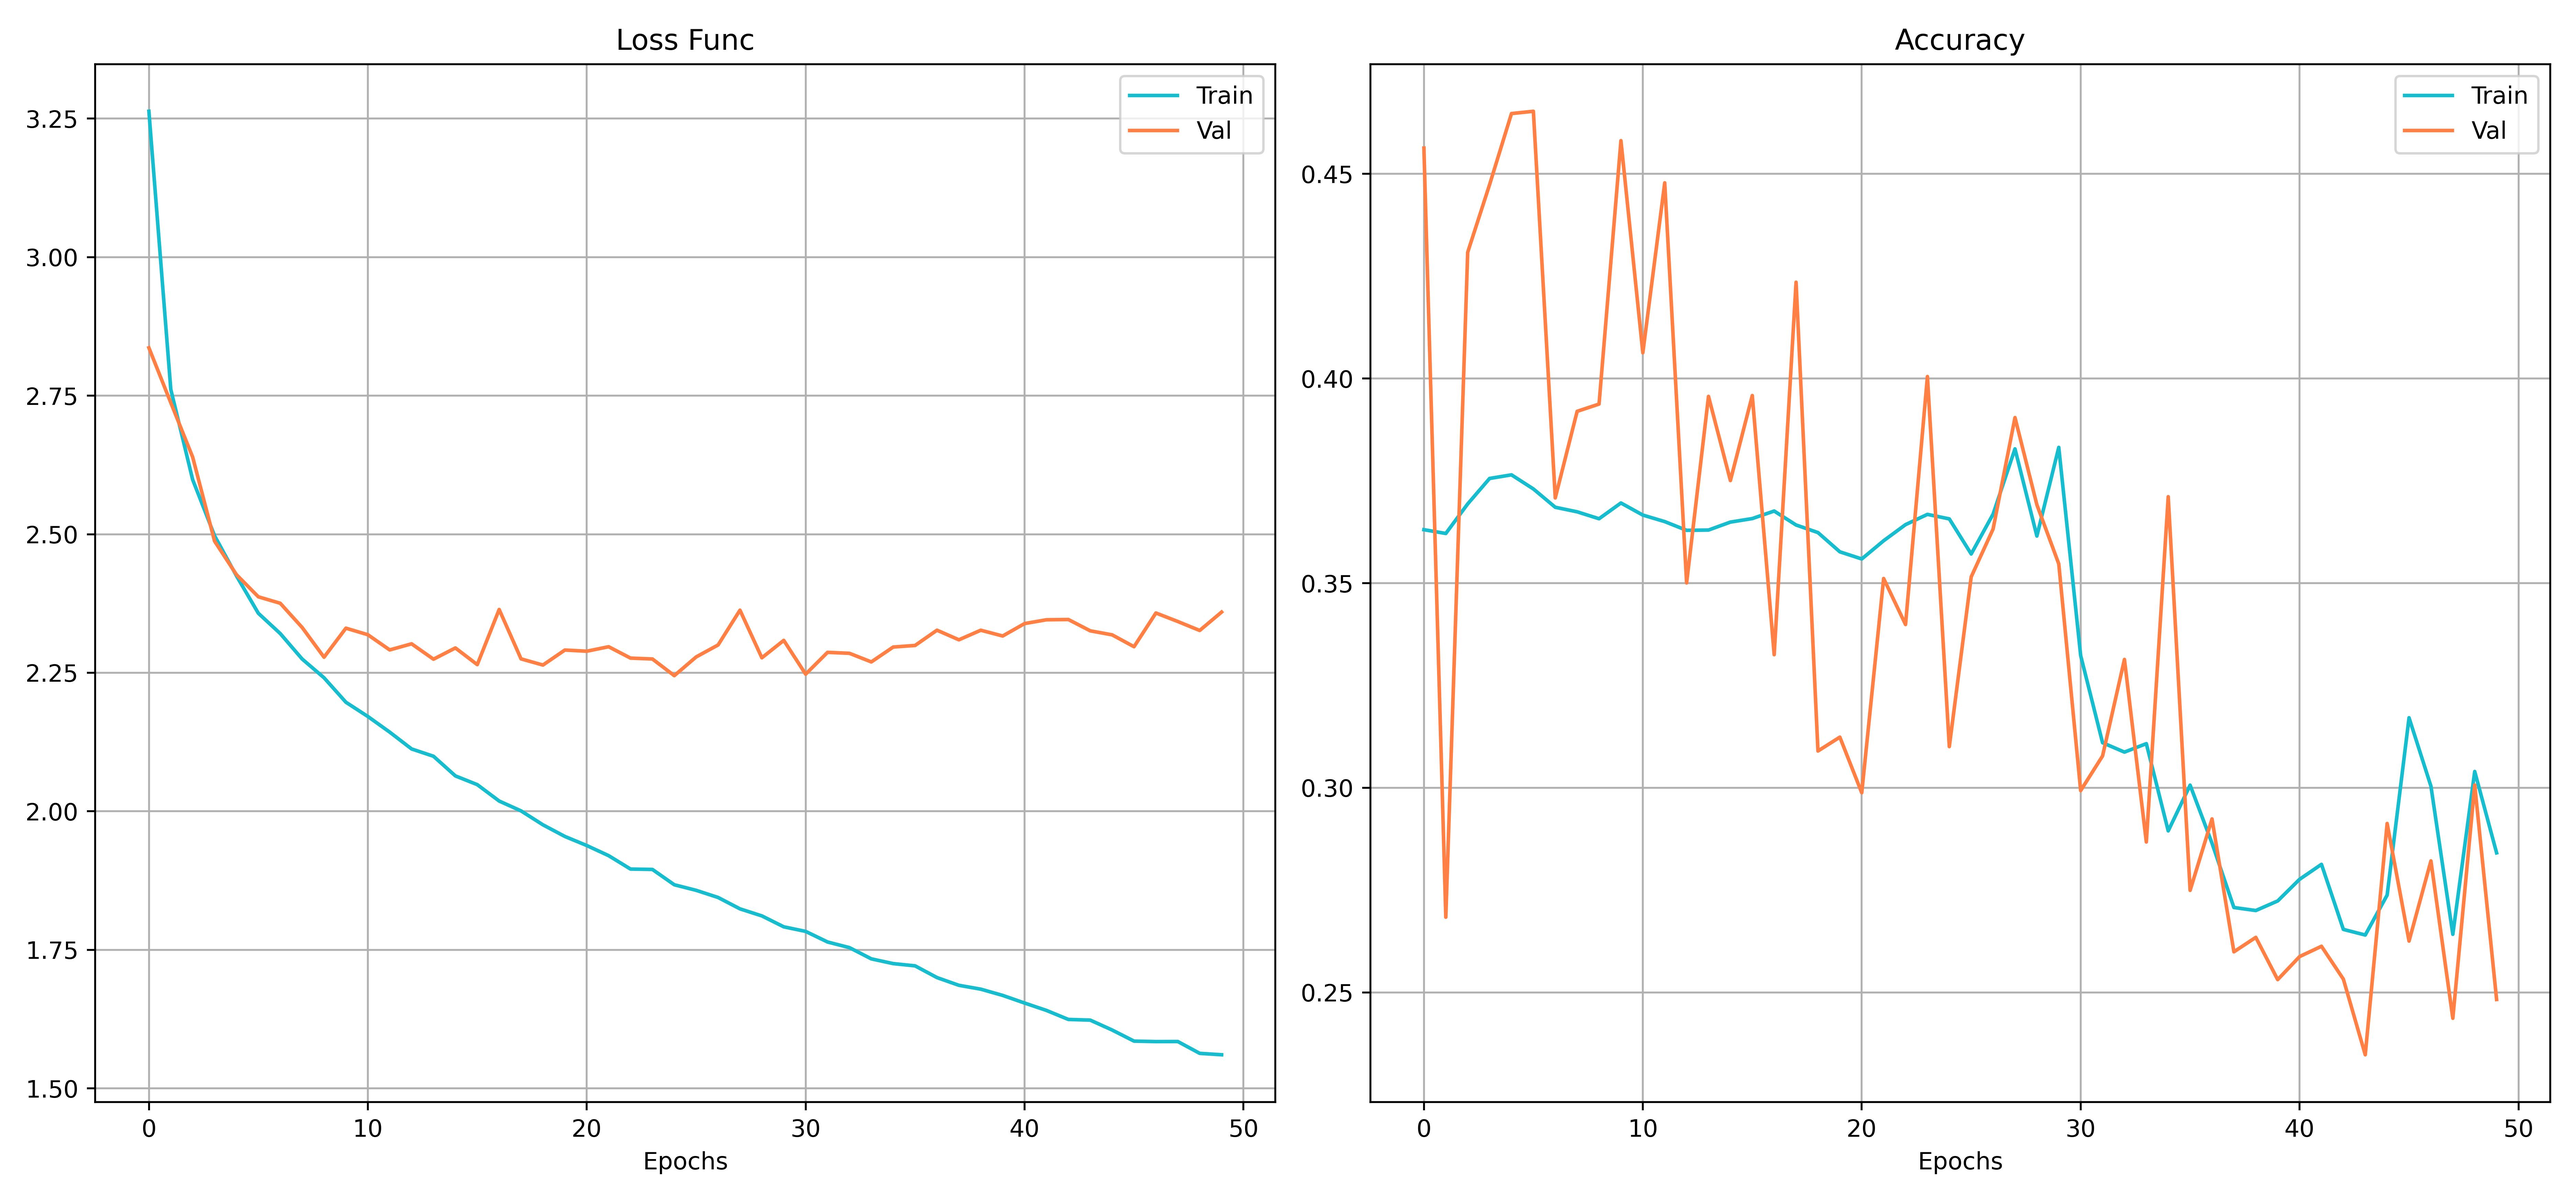
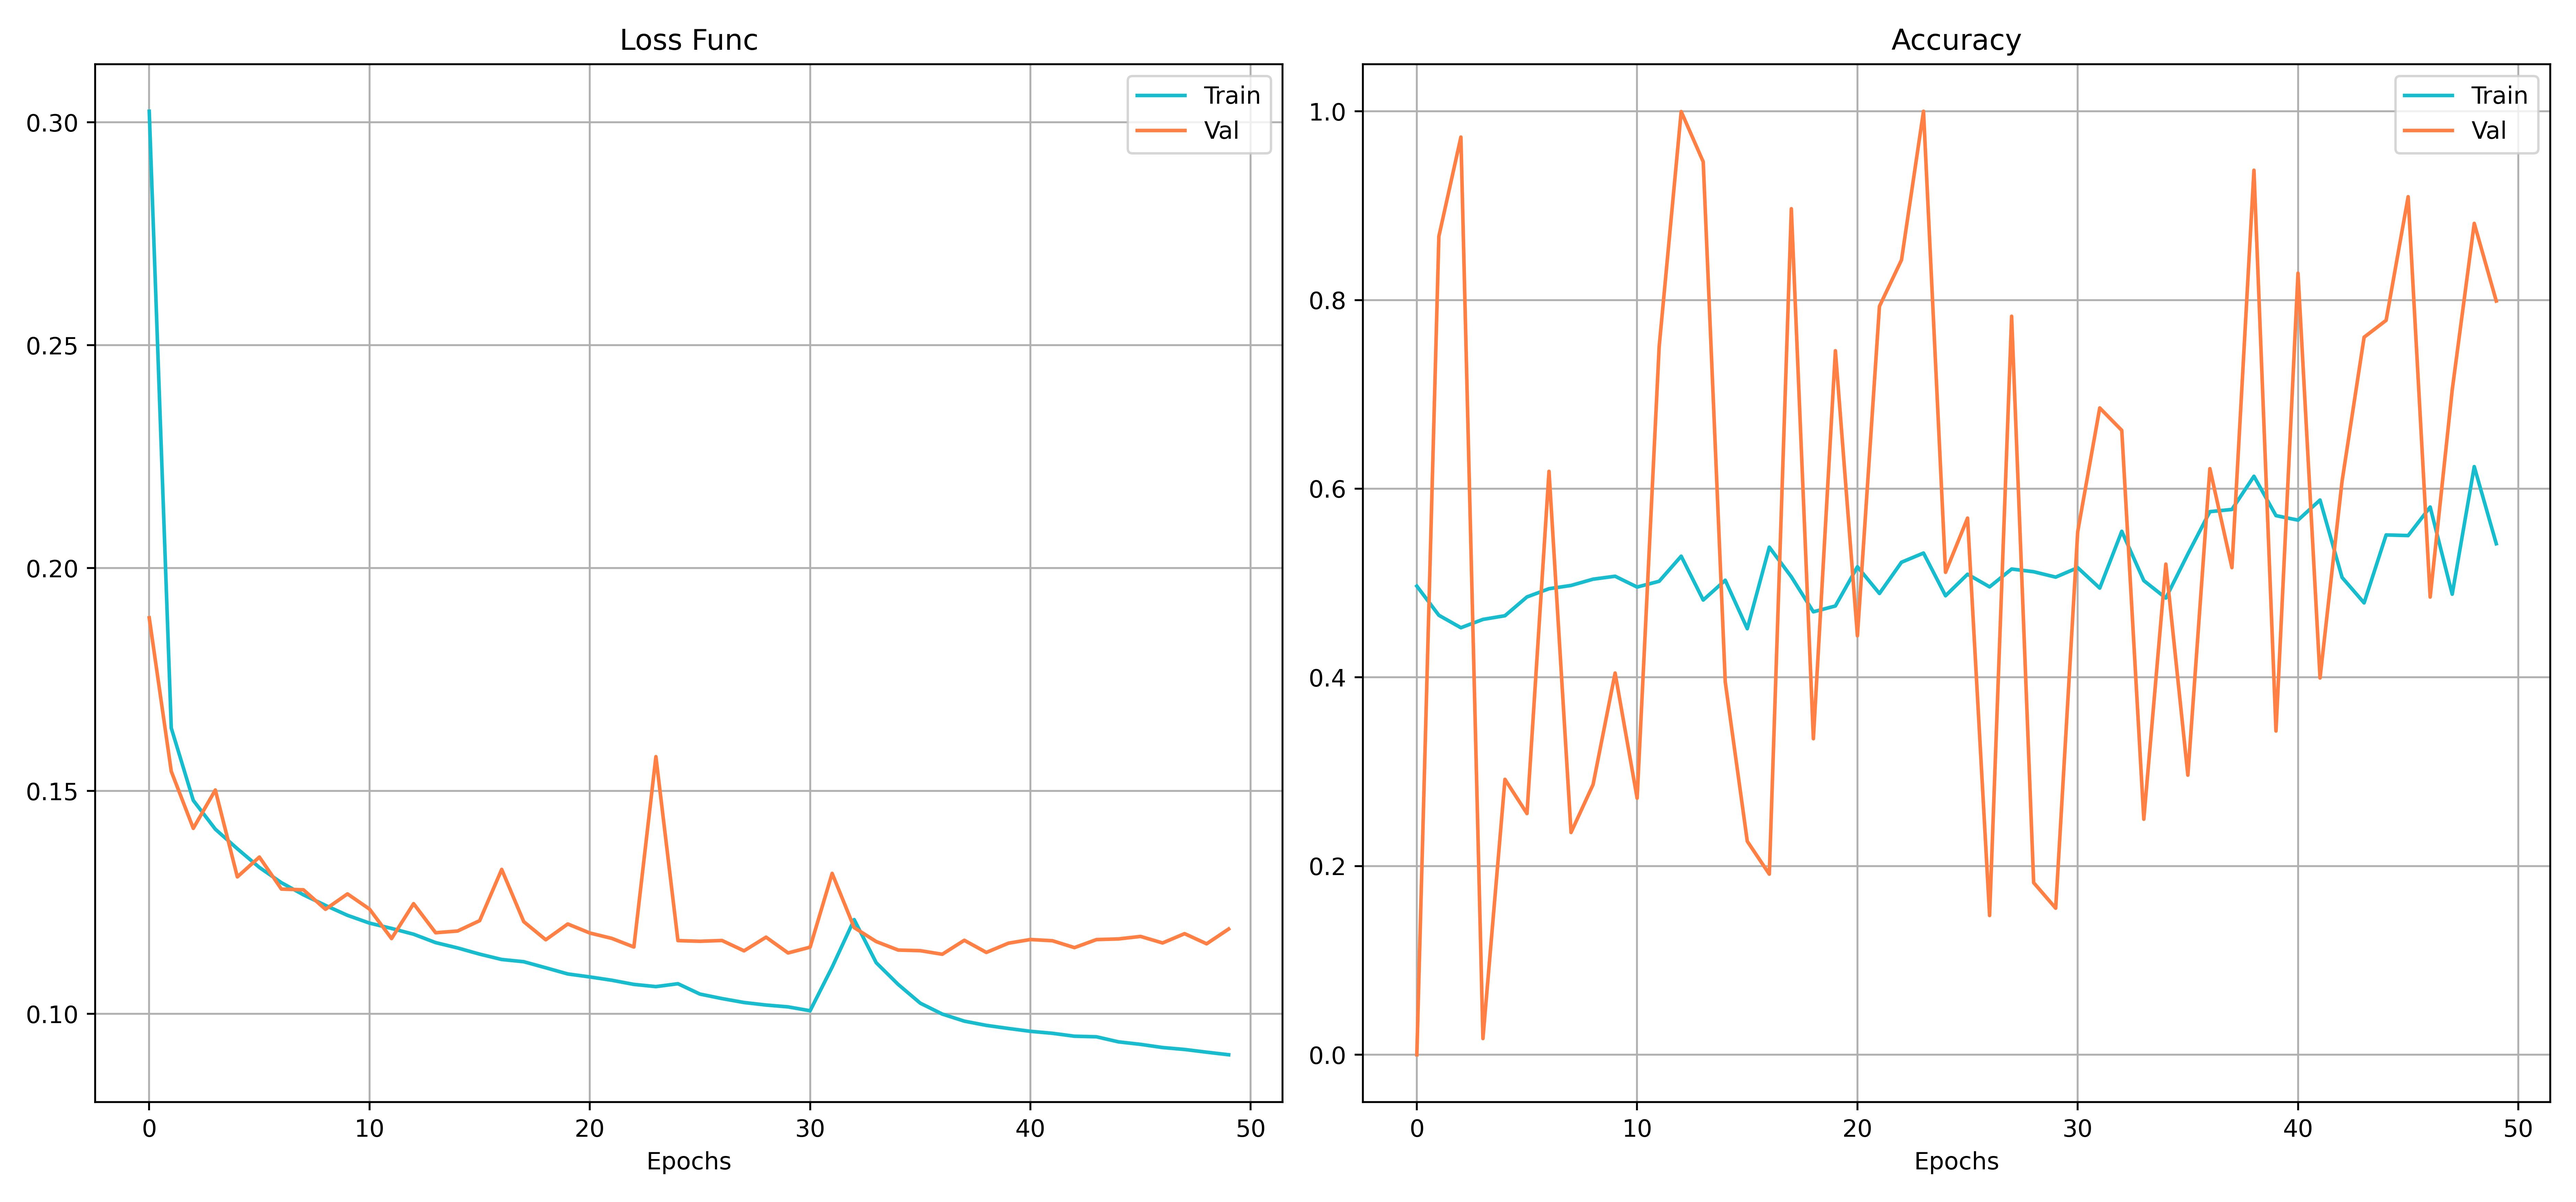
alexnet_var retrained results

diff --git a/CNN_Affect/Training_Procedure.py b/CNN_Affect/Training_Procedure.py
@@ -34,6 +34,7 @@ class Training_Procedure:
         train_data = tf.keras.preprocessing.image_dataset_from_directory(
             self.train_input_path,
             labels=list(self.train_output.astype(int)),
+            label_mode='categorical',
             color_mode='rgb',
             # Use 20% data as testing data.
             validation_split=val_split,
@@ -43,19 +44,20 @@ class Training_Procedure:
             image_size=(self.image_size, self.image_size),
             batch_size=self.batch_size
         )
-        return train_data.apply(lambda x, y: (x/255., y))
+        return train_data.map(lambda x, y: (x/255., y))
 
     def load_test_data(self):
         test_data = tf.keras.preprocessing.image_dataset_from_directory(
             self.test_input_path,
             labels=list(self.test_output.astype(int)),
+            label_mode='categorical',
             color_mode='rgb',
             # Set seed to ensure the same split when loading testing data.
             seed=123,
             image_size=(self.image_size, self.image_size),
             batch_size=self.batch_size
         )
-        return test_data.apply(lambda x, y: (x/255., y))
+        return test_data.map(lambda x, y: (x/255., y))
 
     # Training function
     def training(self):
